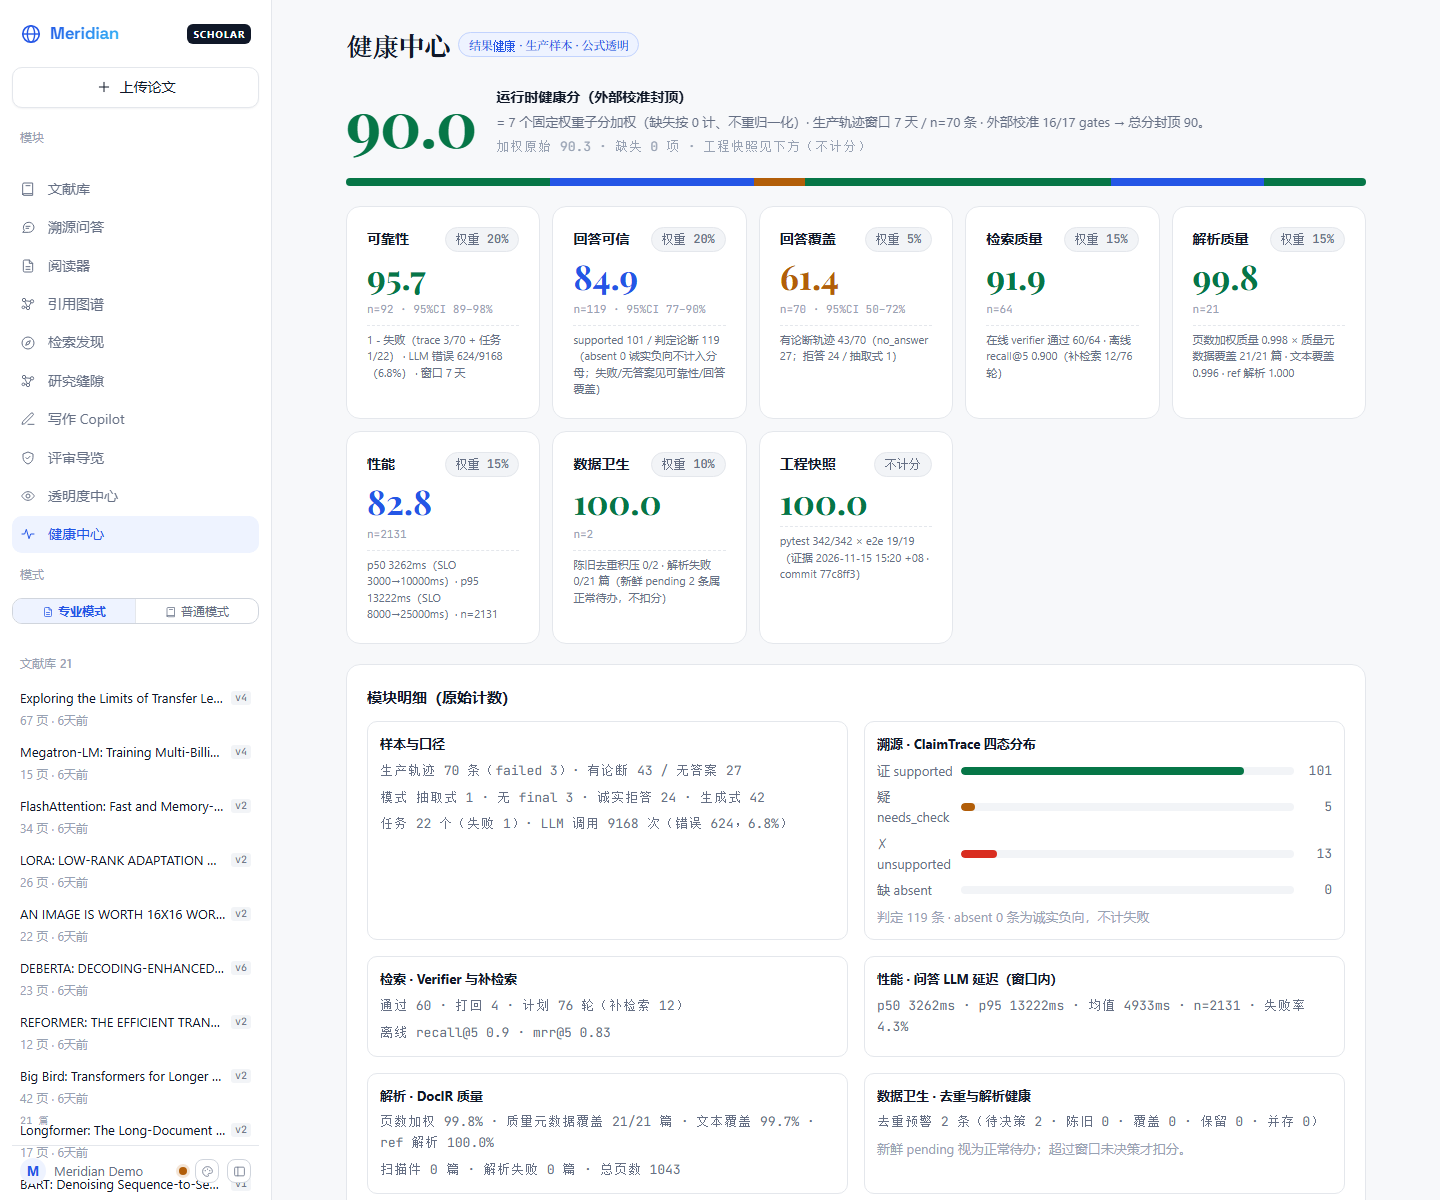
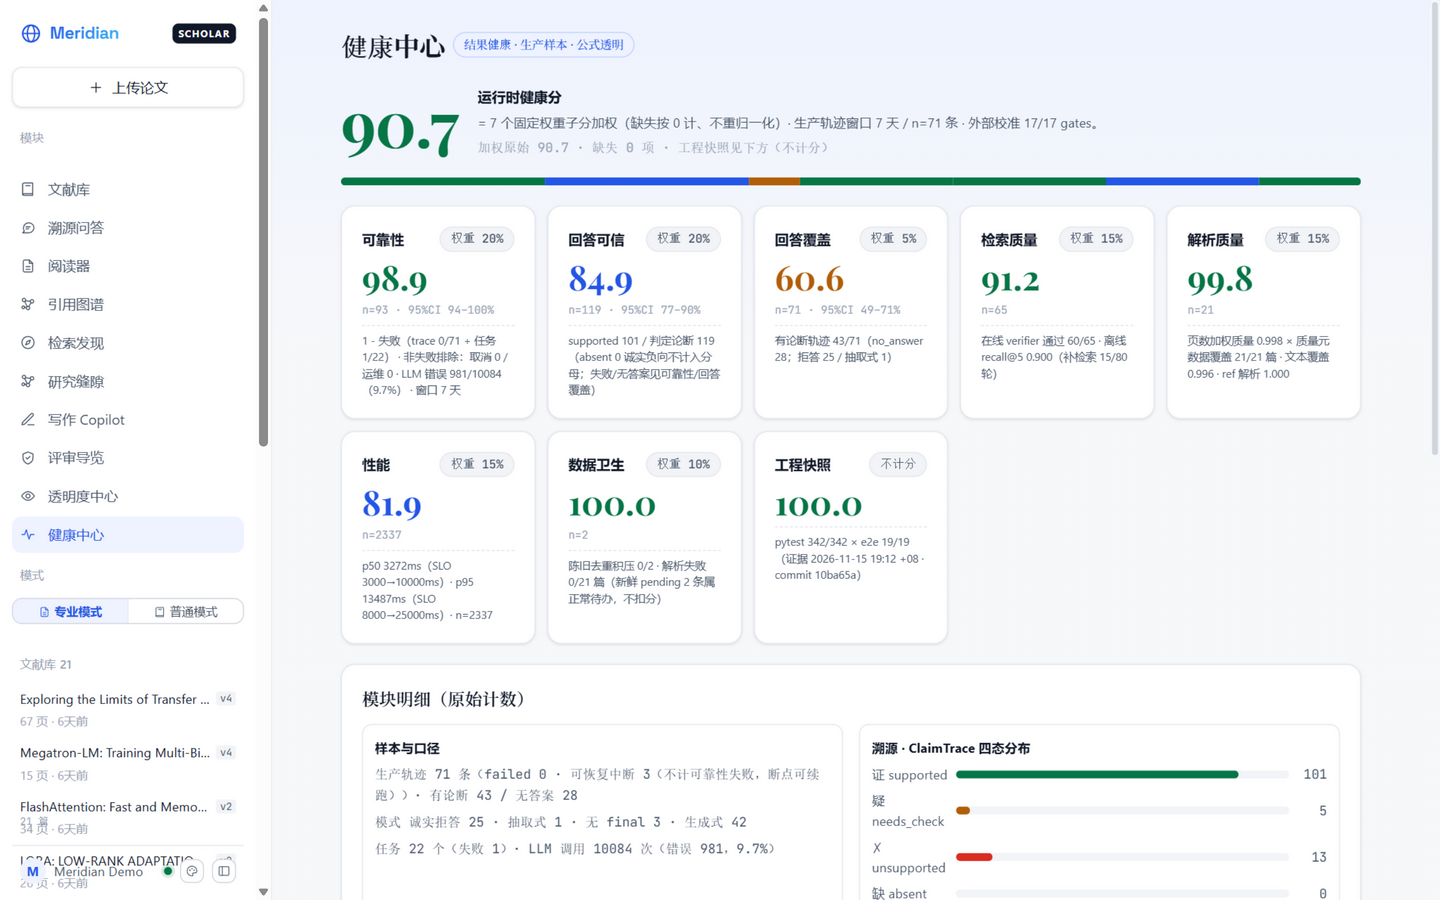
docs(evidence) 重拍健康面板截图: 90.7/双κ+n+CI/趋势/dense覆盖/可恢复中断披露
- health-panel-2026-11-15.png 首屏(总分 90.7 · 工程卡 @10ba65a · resumable 披露)
- health-panel-full-2026-11-15.png 全页(judge 校准双 κ 块 + 近 6 轮趋势)
- judge/page.tsx: compareOk 字面量比较改真值判断(evidence.ts as const 类型兼容)

diff --git a/web/app/judge/page.tsx b/web/app/judge/page.tsx
@@ -25,7 +25,7 @@ const EVIDENCE_ITEMS = [
   ["Playwright e2e", `${EVIDENCE.e2e.passed}/${EVIDENCE.e2e.passed + EVIDENCE.e2e.failed} 通过`
     + (EVIDENCE.e2e.skipped ? ` · ${EVIDENCE.e2e.skipped} 数据跳过` : "")],
   ["诚实评测 eval", `${EVIDENCE.eval.gatesPassed}/${EVIDENCE.eval.gatesTotal}`
-    + (EVIDENCE.eval.compareOk === false ? "（compare_ok=false 如实）" : "")],
+    + (!EVIDENCE.eval.compareOk ? "（compare_ok=false 如实）" : "")],
   ["演示语料", `${EVIDENCE.corpus.papers} 篇 · ${EVIDENCE.corpus.references} refs`],
 ];
 
